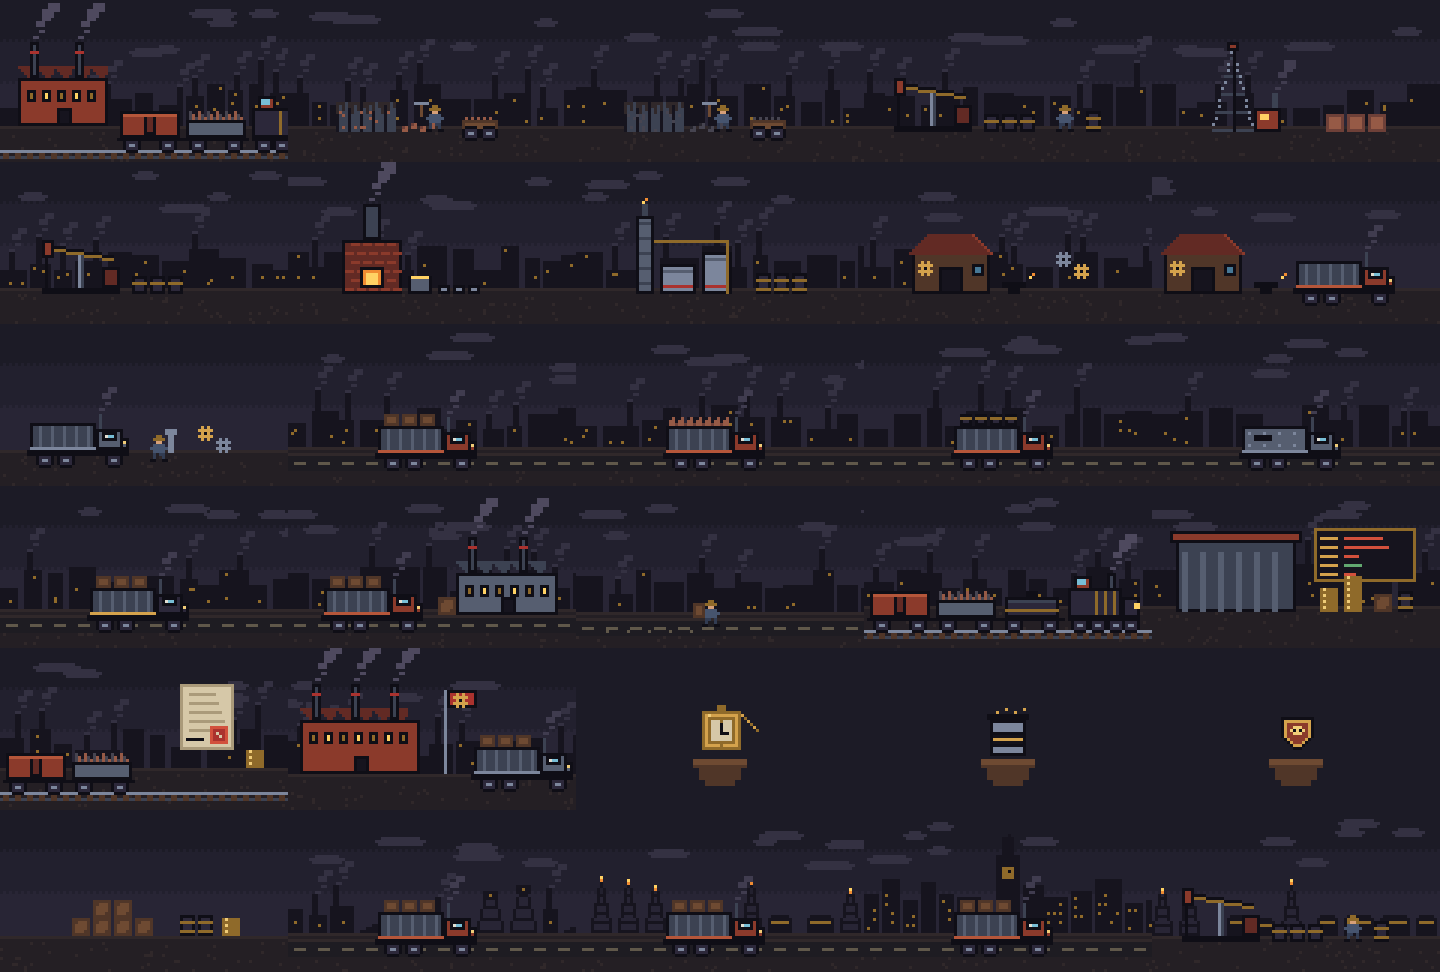
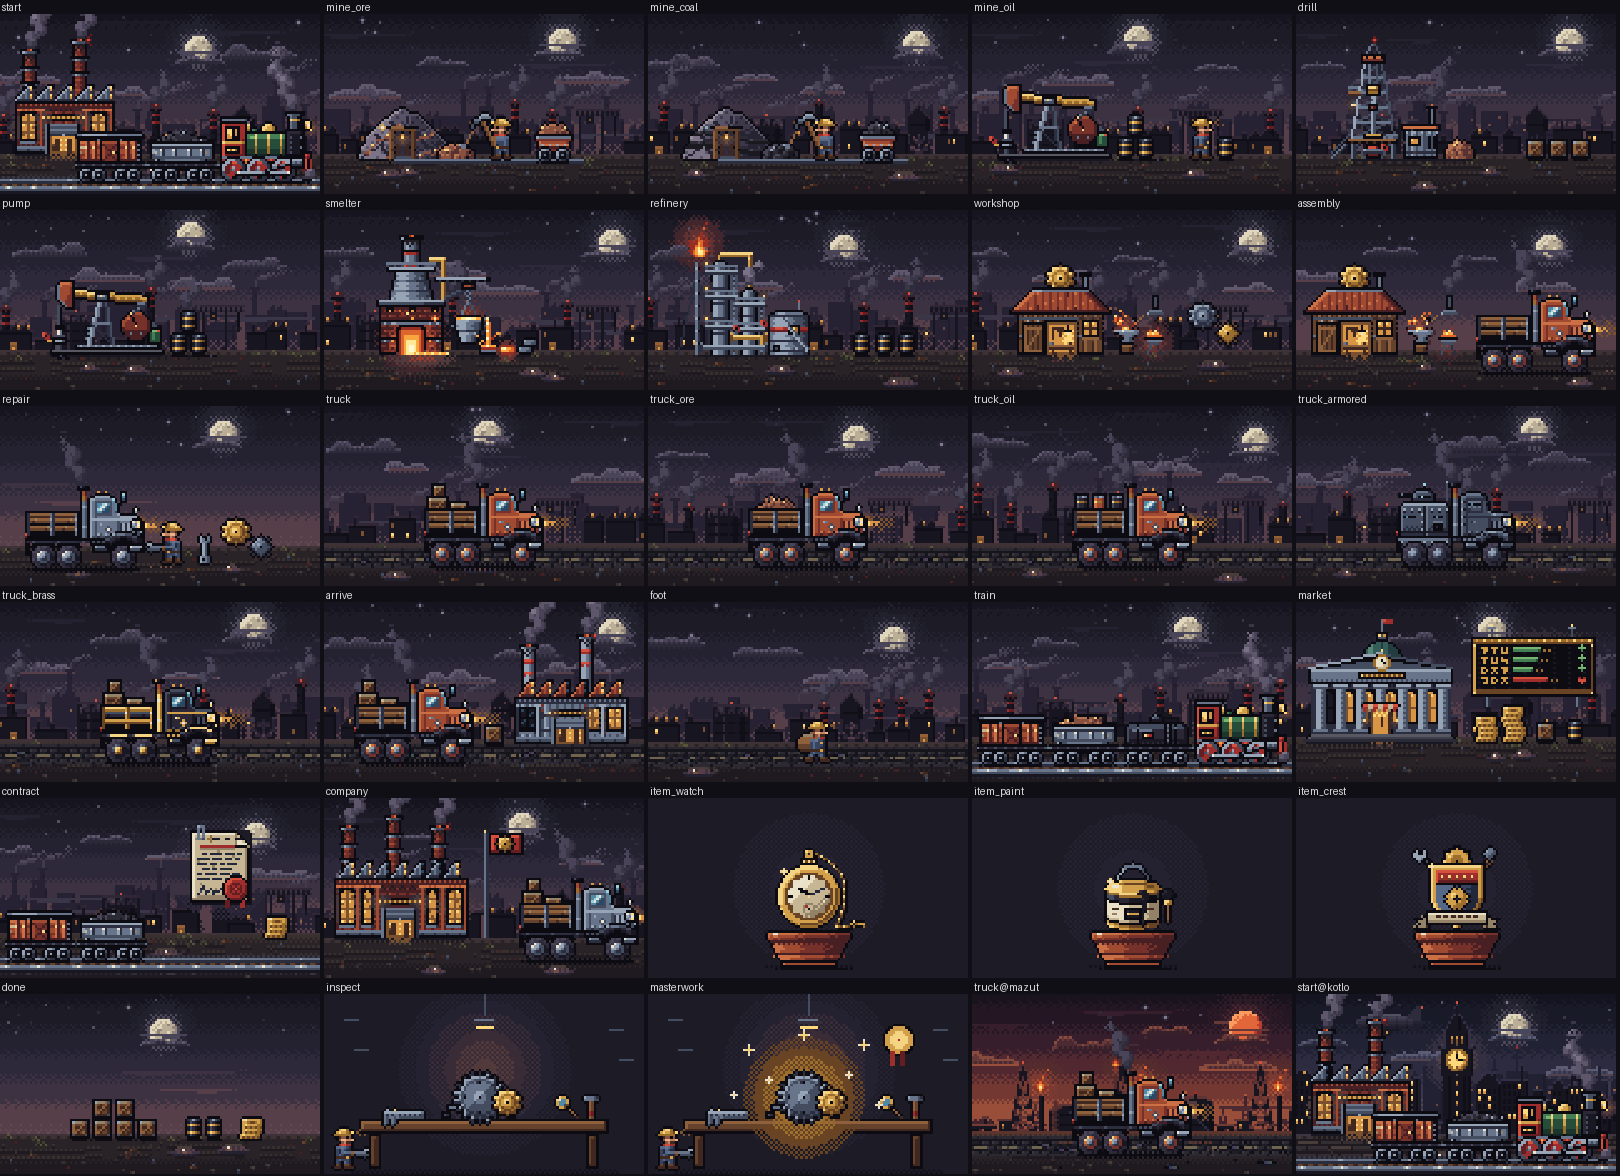
IronVein art: inspect and masterwork quality-reveal scenes, regenerated scene sheet, lint fixes
Claude-Session: https://claude.ai/code/session_01U92SrpPrHRiCYHU1oWAc93

diff --git a/ironvein/ironvein/art/scenes.py b/ironvein/ironvein/art/scenes.py
@@ -20,10 +20,13 @@ from ironvein.art.buildings import (
 from ironvein.art.canvas import Canvas, W
 from ironvein.art.props import (
     barrel,
+    caliper,
     coin_stack,
     crate,
     crest,
     document,
+    hammer,
+    magnifier,
     paint_can,
     pedestal,
     watch,
@@ -185,6 +188,53 @@ def _scene_done(c: Canvas) -> None:
     coin_stack(c, 96, 58, 3)
 
 
+def _bench(c: Canvas) -> None:
+    """Верстак под лампой: тёмная мастерская, конус света, столешница с инструментом."""
+    c.fill("bg")
+    c.vline(64, 0, 9, "steel1")  # шнур лампы
+    c.box(59, 9, 11, 4, "steel", base=1)
+    c.hline(61, 13, 7, "lamp2")
+    c.glow(64, 30, 34, ["sky2", "haze0", "haze1"], soft=0.6)
+    for x, y in ((8, 10), (12, 22), (114, 14), (118, 26)):  # инструмент на стене
+        c.rect(x, y, 6, 1, "steel1")
+    c.box(14, 50, 100, 6, "wood", base=1)  # столешница
+    c.box(18, 56, 5, 14, "wood", base=0)
+    c.box(105, 56, 5, 14, "wood", base=0)
+    c.dither(10, 70, 108, 2, None, "sky0", 0.5)
+    caliper(c, 24, 46)
+    magnifier(c, 92, 40)
+    hammer(c, 104, 41)
+    worker(c, 2, 70, "wrench")
+
+
+def _part(c: Canvas, cx: int, cy: int) -> None:
+    """Свежевыточенная деталь — шестерня на валу."""
+    c.box(cx - 15, cy + 6, 4, 3, "steel", base=0)  # опоры вала на верстаке
+    c.box(cx + 11, cy + 6, 4, 3, "steel", base=0)
+    c.box(cx - 13, cy + 3, 26, 3, "steel", base=1)  # вал
+    gear(c, cx, cy, 8, "steel")
+    gear(c, cx + 11, cy + 2, 4, "brass")
+
+
+def _scene_inspect(c: Canvas) -> None:
+    _bench(c)
+    _part(c, 62, 41)
+
+
+def _scene_masterwork(c: Canvas) -> None:
+    _bench(c)
+    c.glow(62, 41, 24, ["brass0", "brass1", "brass2"], soft=0.55)
+    _part(c, 62, 41)
+    for x, y, a in ((40, 22, 2), (86, 20, 2), (48, 34, 1), (80, 32, 1), (62, 16, 2), (34, 40, 1), (92, 44, 1)):
+        c.sparkle(x, y, "brass3", a, "white")
+    c.disk(100, 18, 6, "k")  # латунная розетка «мастер»
+    c.disk(100, 18, 5, "brass2")
+    c.disk(100, 18, 3, "brass3")
+    c.dot(100, 18, "red1")
+    c.rect(97, 23, 2, 6, "red1")
+    c.rect(101, 23, 2, 6, "red0")
+
+
 SCENES = {
     "start": _scene_start,
     "mine_ore": lambda c: _scene_mine(c, "ore"),
@@ -212,8 +262,10 @@ SCENES = {
     "item_paint": lambda c: _scene_item(c, "paint"),
     "item_crest": lambda c: _scene_item(c, "crest"),
     "done": _scene_done,
+    "inspect": _scene_inspect,
+    "masterwork": _scene_masterwork,
 }
 
 THEMES = ("rust", "mazut", "kotlo")
 # Сцены без горизонта (интерьер, предмет на постаменте) не зависят от локации.
-UNTHEMED = {"assembly", "repair", "item_watch", "item_paint", "item_crest", "done"}
+UNTHEMED = {"assembly", "repair", "item_watch", "item_paint", "item_crest", "done", "inspect", "masterwork"}

diff --git a/ironvein/ironvein/art/buildings.py b/ironvein/ironvein/art/buildings.py
@@ -100,7 +100,7 @@ def _cyl_levels(n: int, w: int, shift: float = 0.0) -> list[float]:
     for i in range(w):
         f = (i + 0.5) / w
         v = 0.0
-        for (f0, v0), (f1, v1) in zip(_CYL, _CYL[1:]):
+        for (f0, v0), (f1, v1) in zip(_CYL, _CYL[1:], strict=False):
             if f <= f1:
                 v = v0 + (v1 - v0) * (f - f0) / (f1 - f0)
                 break
@@ -415,7 +415,7 @@ def factory(c: Canvas, x: int, gy: int, w: int = 40, h: int = 21, chimneys: int 
         c.vline(px + 1, top + 3, gy - top - 6, t[0])
         c.hline(px - 1 if k else px, top + 3, 3 if k else 2, t[3])
     wy, wh = top + 5, gy - top - 11
-    for a, b in zip(piers, piers[1:]):
+    for a, b in zip(piers, piers[1:], strict=False):
         inner = b - a - 2
         ww = 5 if inner >= 7 else 3
         wx = a + 2 + (inner - ww) // 2
@@ -500,7 +500,7 @@ def drill_rig(c: Canvas, x: int, gy: int) -> None:
     c.line(x - 1, fl - 2, x - 8, gy - 3, "steel1")
     # Вышка: X-раскосы в панелях, пояса, ноги
     girts = list(range(fl - 1, top, -6)) + [top]
-    for y0, y1 in zip(girts, girts[1:]):
+    for y0, y1 in zip(girts, girts[1:], strict=False):
         a0, b0 = legs(y0)
         a1, b1 = legs(y1)
         c.line(a0 + 1, y0, b1 - 1, y1, "steel1")
@@ -1149,7 +1149,7 @@ def market_hall(c: Canvas, x: int, gy: int, w: int = 54, h: int = 30) -> None:
     c.dither(x + 1, top + 6, w - 2, 2, None, "oil1", 0.5)
     ncol = max(3, (w - 4) // 8 + 1)
     cols = [x + 2 + round(i * (w - 7) / (ncol - 1)) for i in range(ncol)]
-    for a, b in zip(cols, cols[1:]):  # арочные окна между колоннами
+    for a, b in zip(cols, cols[1:], strict=False):  # арочные окна между колоннами
         mid = (a + b + 3) // 2
         if abs(mid - cx) <= 3:
             continue
@@ -1355,7 +1355,7 @@ def rock(c: Canvas, x: int, gy: int, res: str, track: int = 66) -> None:
     # Грани: ближайшая «затравка» → грань; тон грани зависит от её положения (свет слева)
     seeds = [(5, 15), (11, 9), (17, 4), (24, 6), (30, 12), (35, 18), (14, 17), (23, 15), (9, 19), (28, 20)]
     tone_of = []
-    for sx, sy in seeds:
+    for sx, _sy in seeds:
         v = 3.3 - sx / 10 + (c.rnd.random() - 0.5) * 0.8
         tone_of.append(max(0, min(3, round(v))))
     owner = {}

diff --git a/ironvein/tests/test_art.py b/ironvein/tests/test_art.py
@@ -1,6 +1,5 @@
 import io
 
-import pytest
 from PIL import Image
 
 from ironvein.art import SCENES, render_png
@@ -59,7 +58,6 @@ def test_render_is_deterministic():
         assert _render.__wrapped__(name) == _render.__wrapped__(name), name
 
 
-@pytest.mark.xfail(reason="сцены inspect/masterwork добавляет арт-workflow (этап композиции)", strict=False)
 def test_every_scene_name_used_by_the_bot_exists():
     """Имя сцены, которого нет в SCENES, молча превращается в заставку — ловим это тестом по исходникам."""
     import re

diff --git a/ironvein/ironvein/art/props.py b/ironvein/ironvein/art/props.py
@@ -646,7 +646,7 @@ def watch(c: Canvas, cx: int, cy: int, r: int = 12) -> None:
     # цепочка: от ушка дугой вправо и вниз, затем лежит звеньями на постаменте
     chain = _bezier((cx + 2, cy - r - 5), (cx + r + 9, cy - r + 2), (cx + r - 1, cy + r), 40)
     chain += [(cx + r + i, cy + r) for i in range(0, 5)]
-    for i, (px, py) in enumerate(chain):
+    for px, py in chain:
         c.dot(px + 1, py + 1, "k")
     for i, (px, py) in enumerate(chain):
         c.dot(px, py, ("brass3", "brass1", "brass0")[i % 3])

diff --git a/ironvein/ironvein/art/backgrounds.py b/ironvein/ironvein/art/backgrounds.py
@@ -418,7 +418,7 @@ def _truss(c: Canvas, x: int, gy: int, h: int, col, base: int, top: int, panel: 
     c.line(ax0, gy - 1, ax1, gy - h, col)
     c.line(bx0, gy - 1, bx1, gy - h, col)
     rows = list(range(0, h - 1, panel)) + [h - 1]
-    for k, (i, j) in enumerate(zip(rows, rows[1:])):
+    for k, (i, j) in enumerate(zip(rows, rows[1:], strict=False)):
         a, b = legs(i)
         a2, b2 = legs(j)
         c.hline(a, gy - 1 - i, b - a + 1, col)

diff --git a/ironvein/ironvein/art/canvas.py b/ironvein/ironvein/art/canvas.py
@@ -169,7 +169,7 @@ class Canvas:
                 if (ya <= yc < yb) or (yb <= yc < ya):
                     xs.append(xa + (yc - ya) * (xb - xa) / (yb - ya))
             xs.sort()
-            for a, b in zip(xs[::2], xs[1::2]):
+            for a, b in zip(xs[::2], xs[1::2], strict=False):
                 for x in range(math.ceil(a - 0.5), math.floor(b - 0.5) + 1):
                     self.dot(x, y, c)
 
